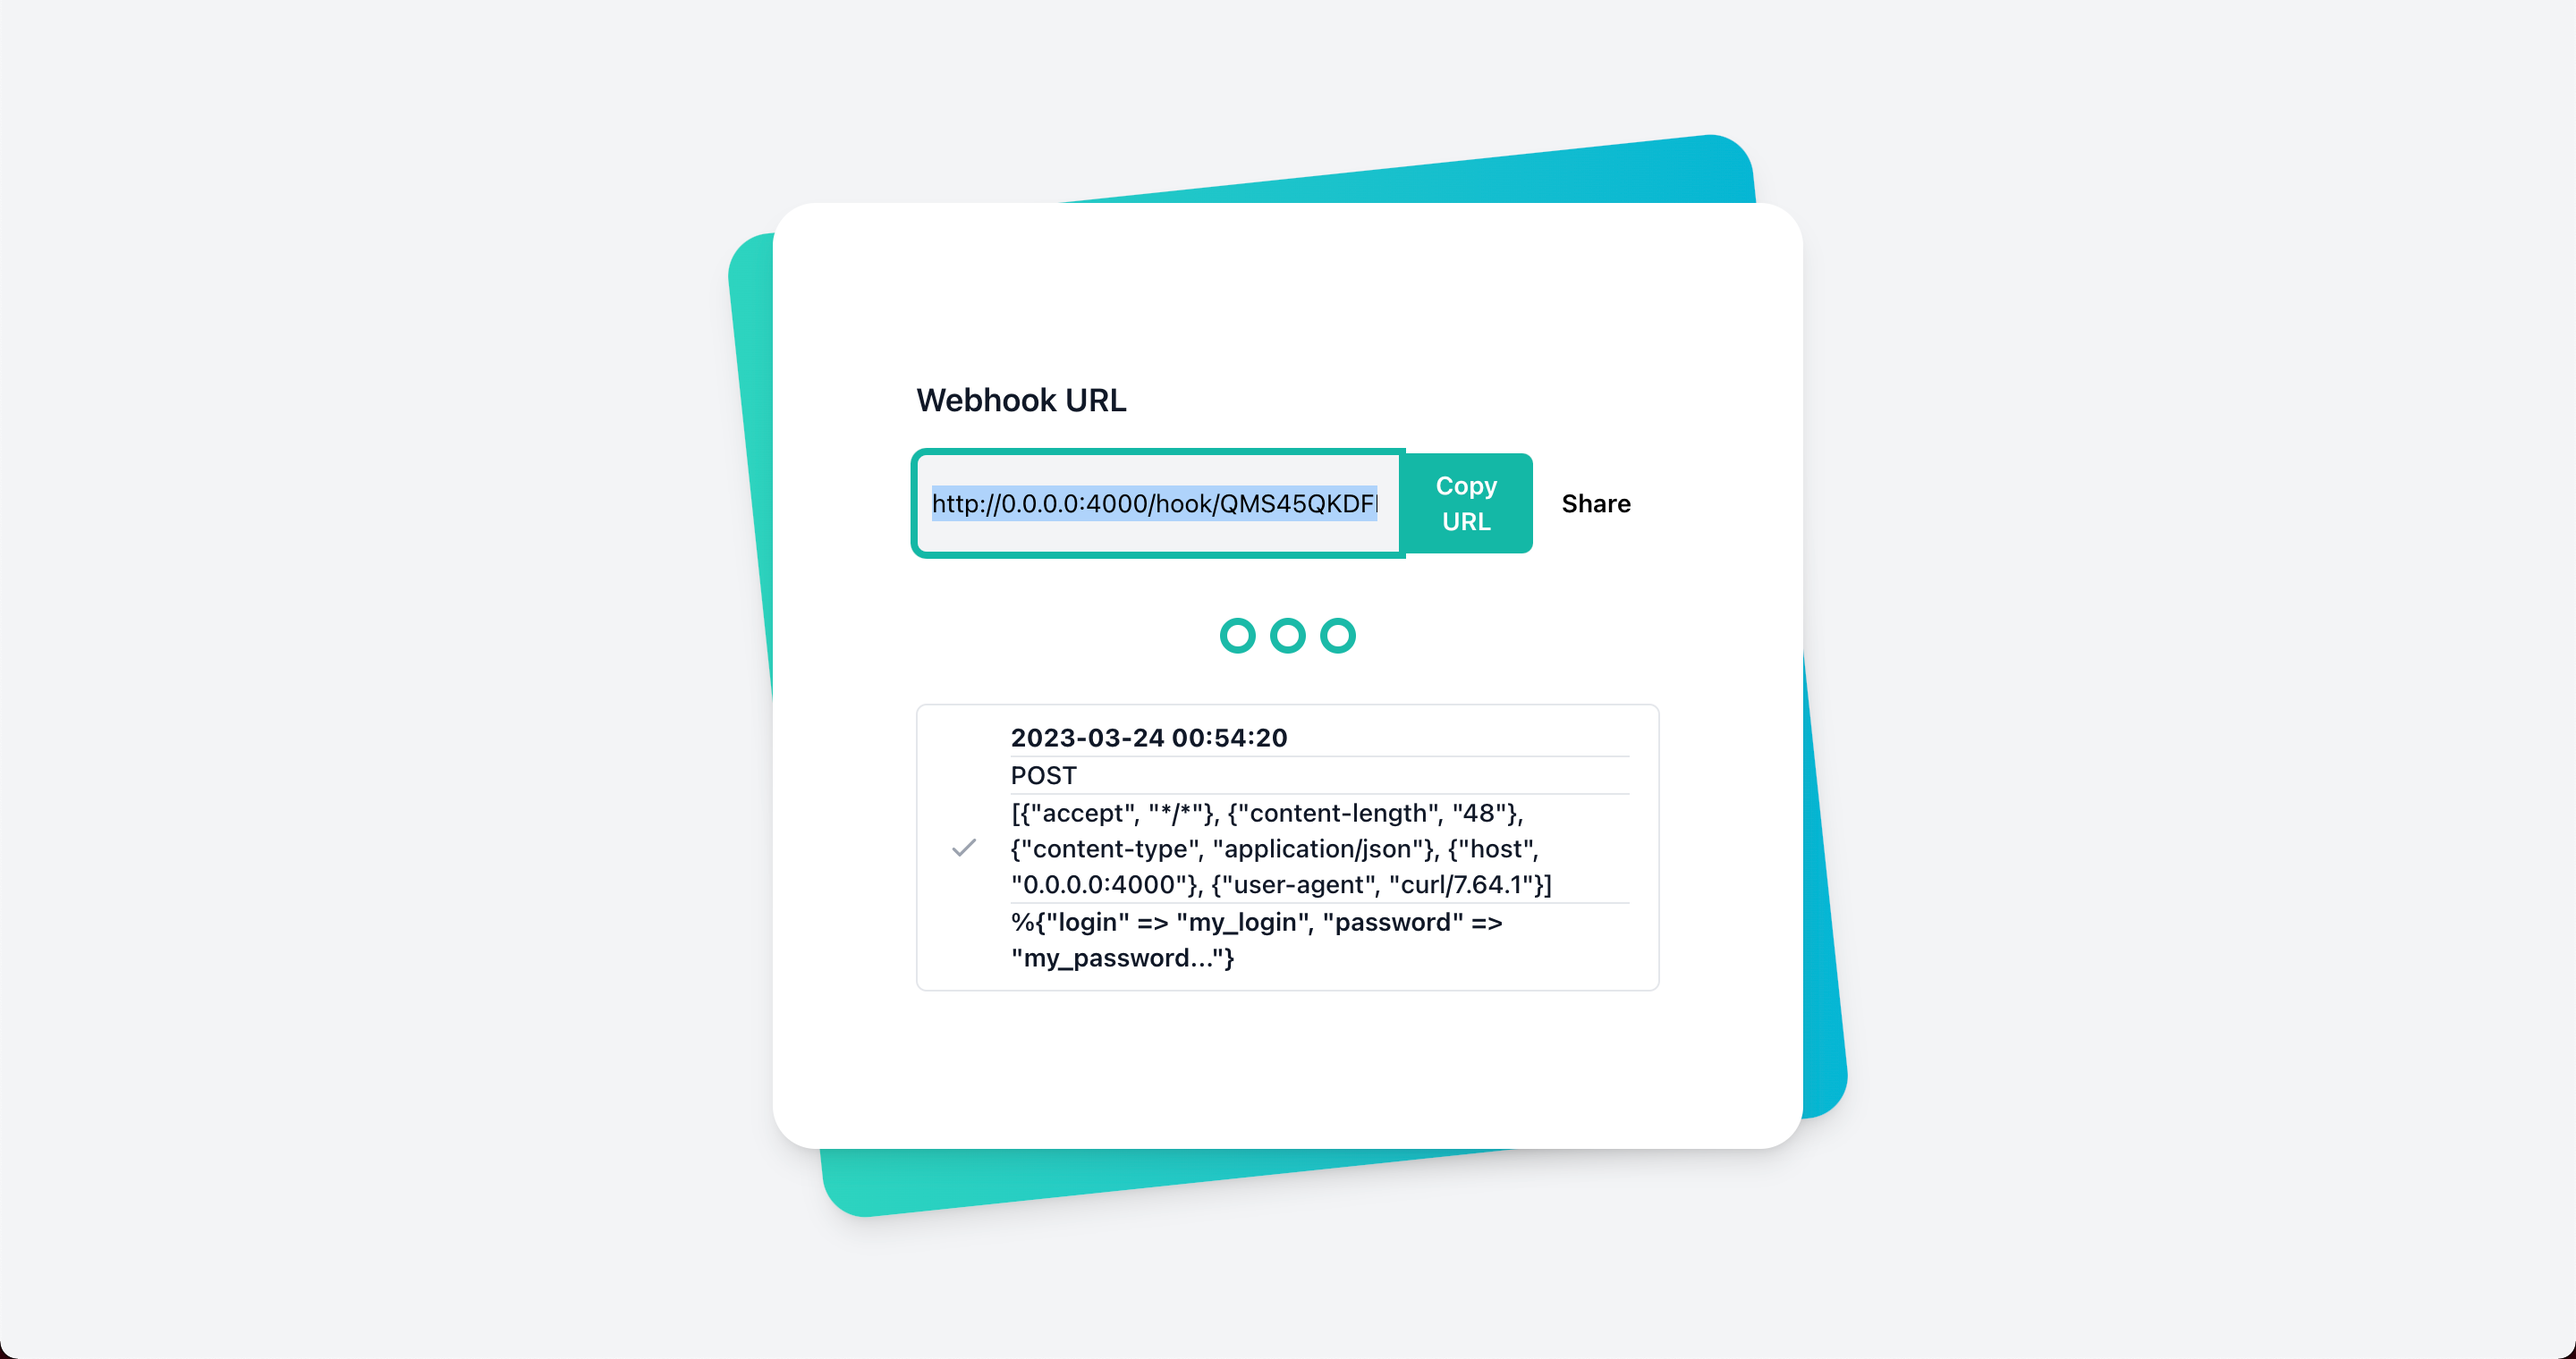
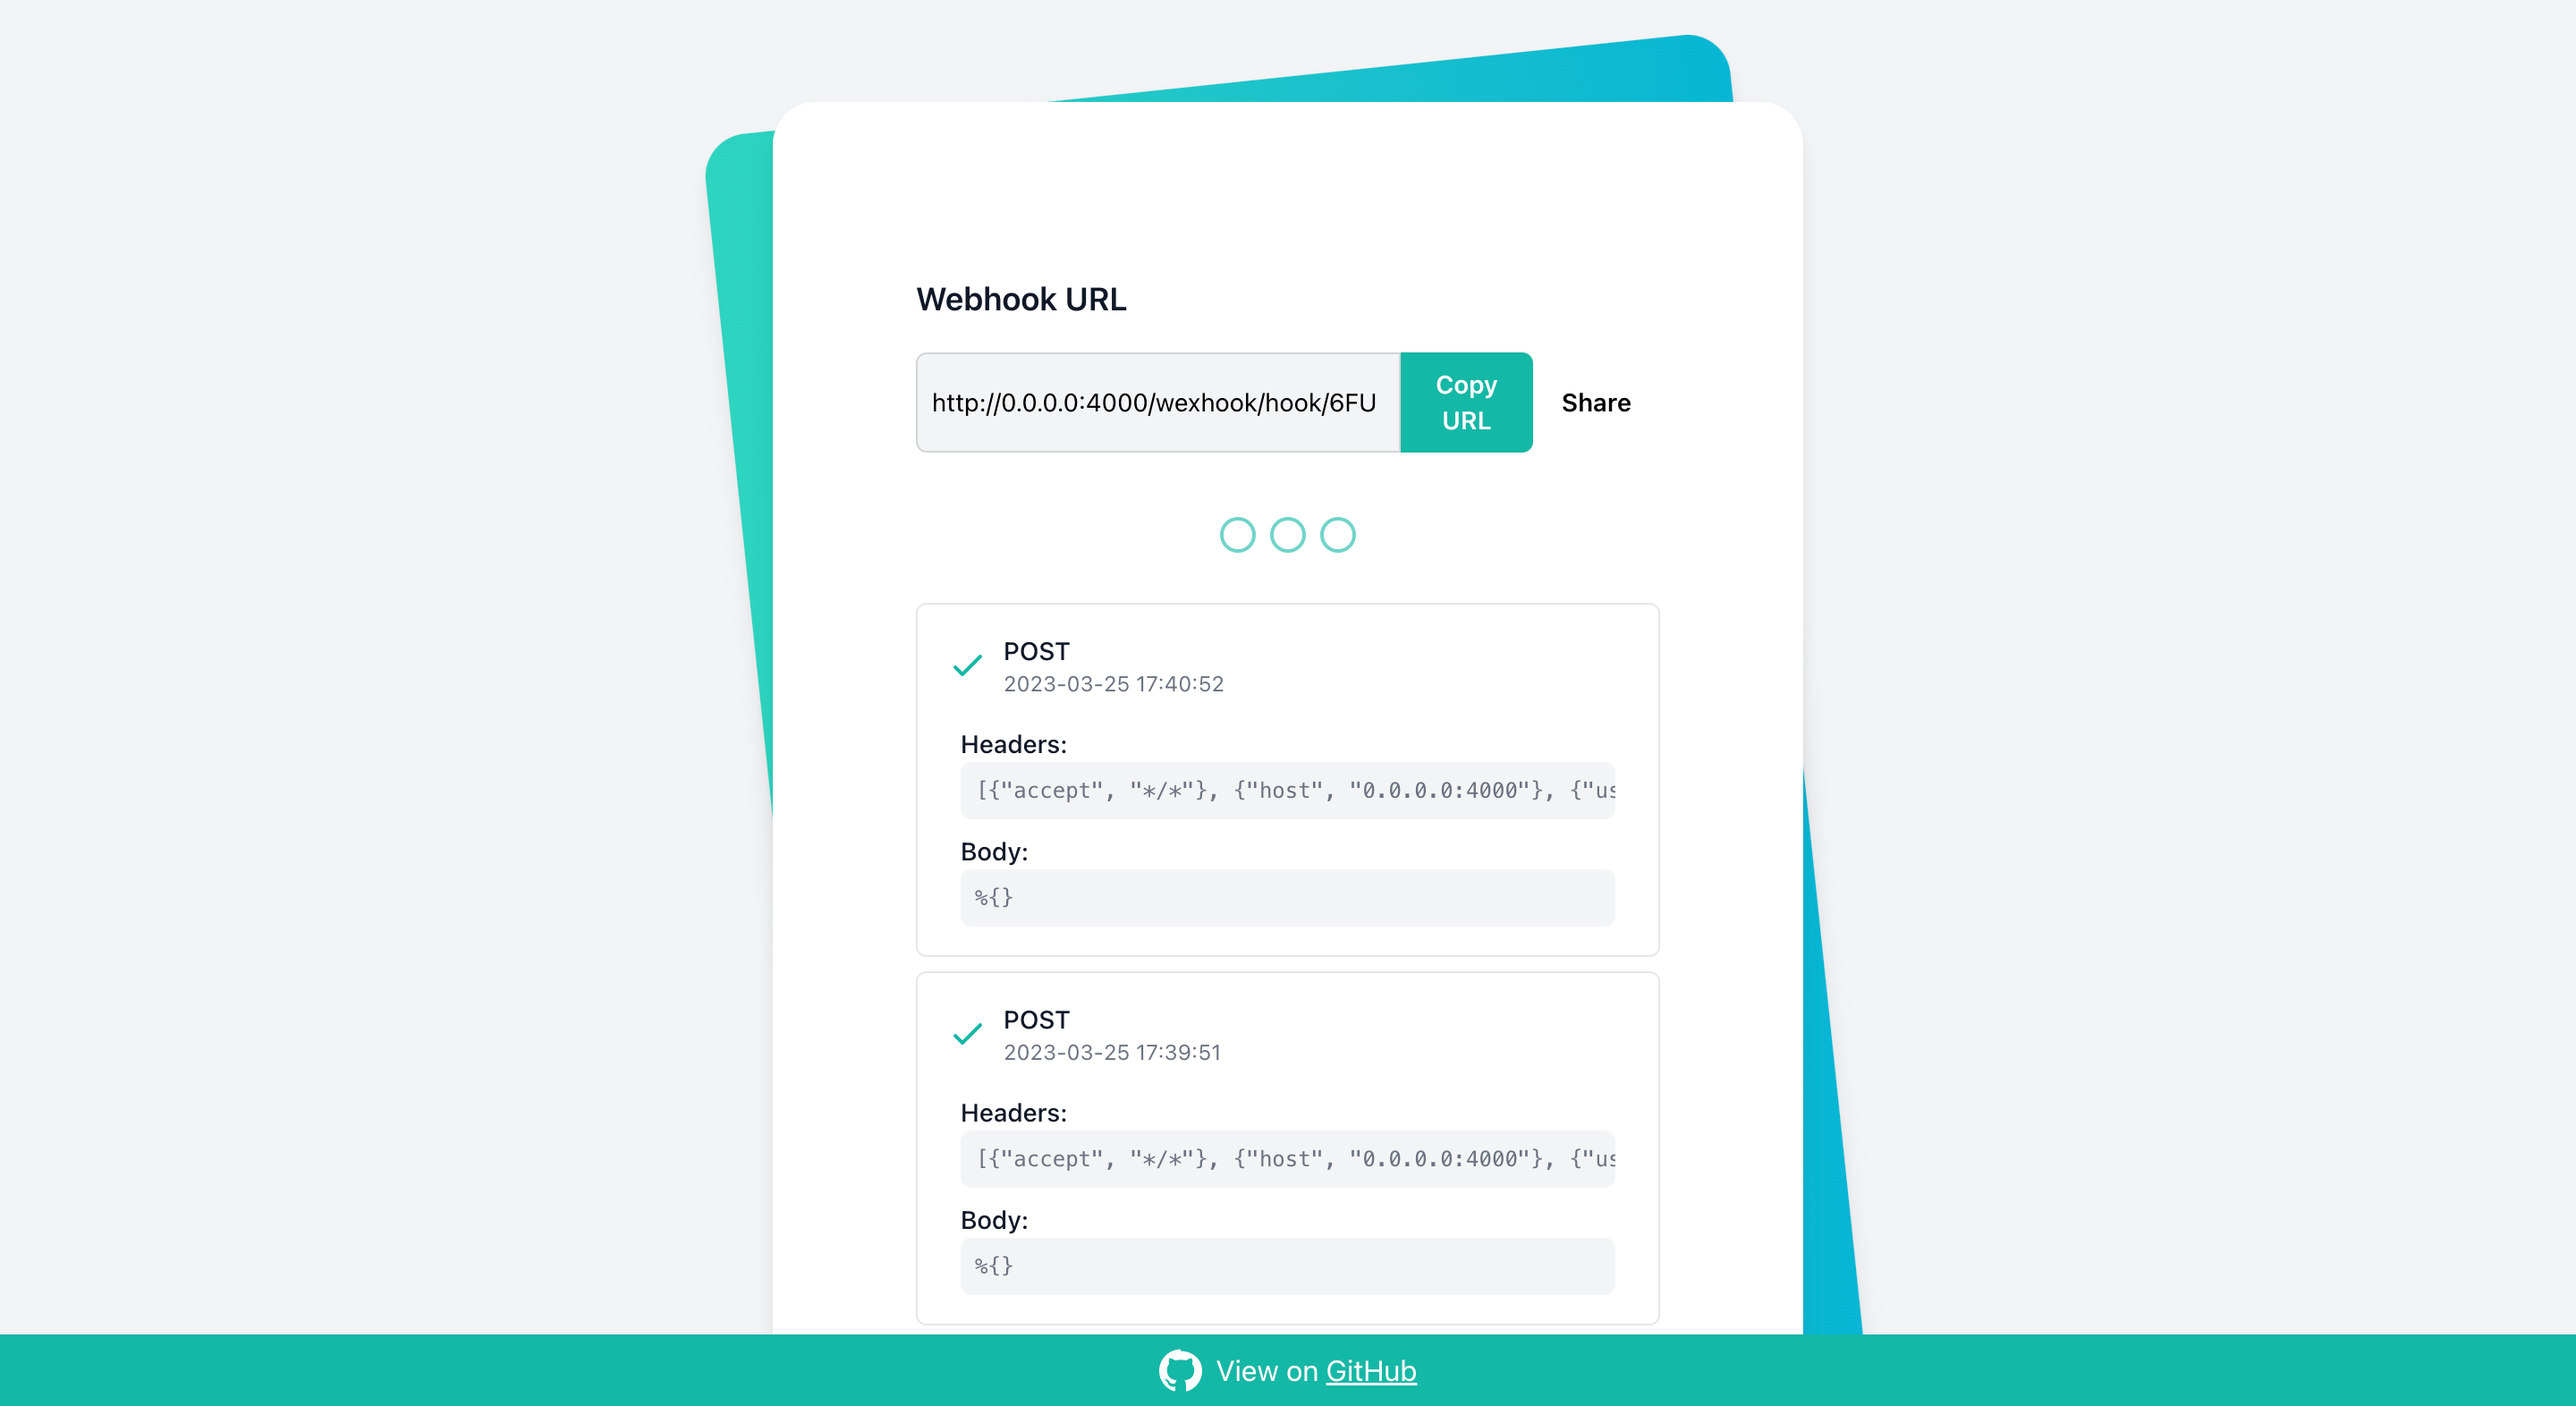
Redesign request data view

diff --git a/CHANGELOG.md b/CHANGELOG.md
@@ -4,6 +4,7 @@
 
 ### Added
 - Add footer with github link
+- Redesign of request data
 
 ## 0.3.1 (2023-03-25)
 
